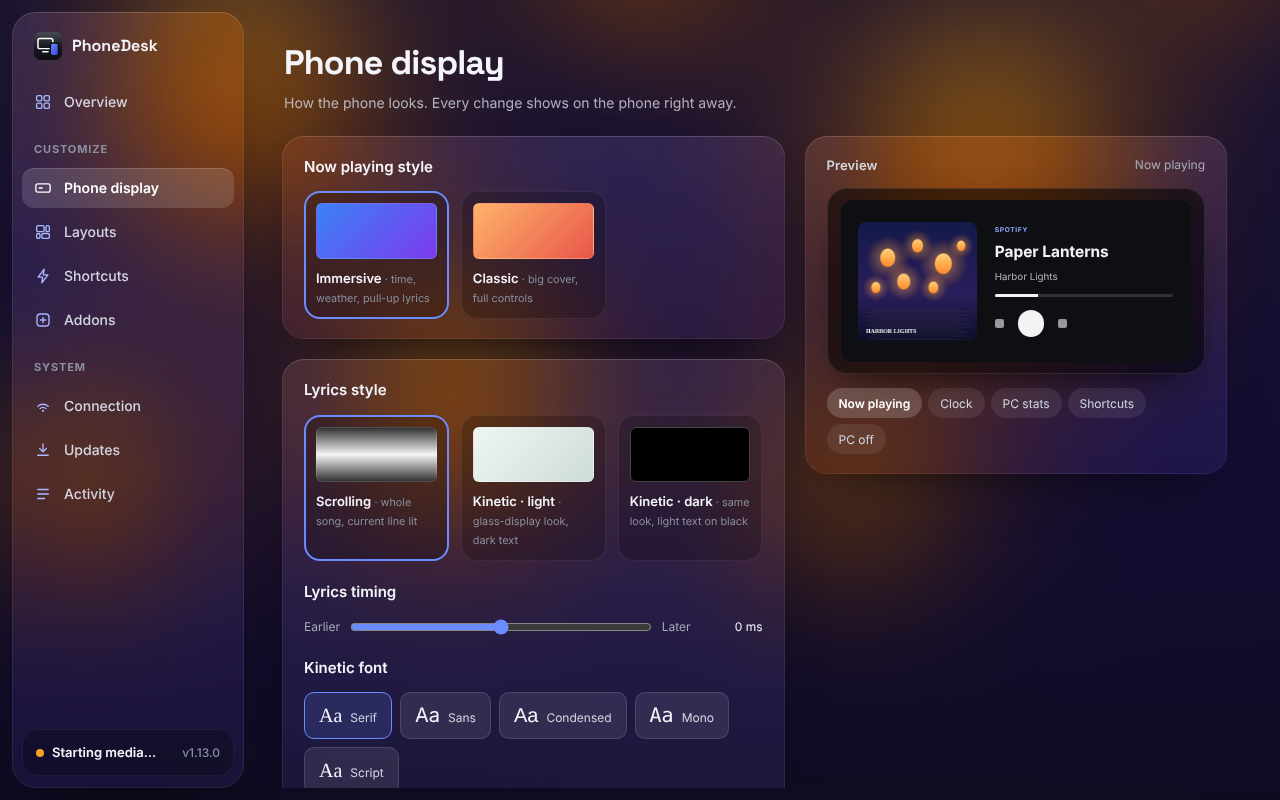
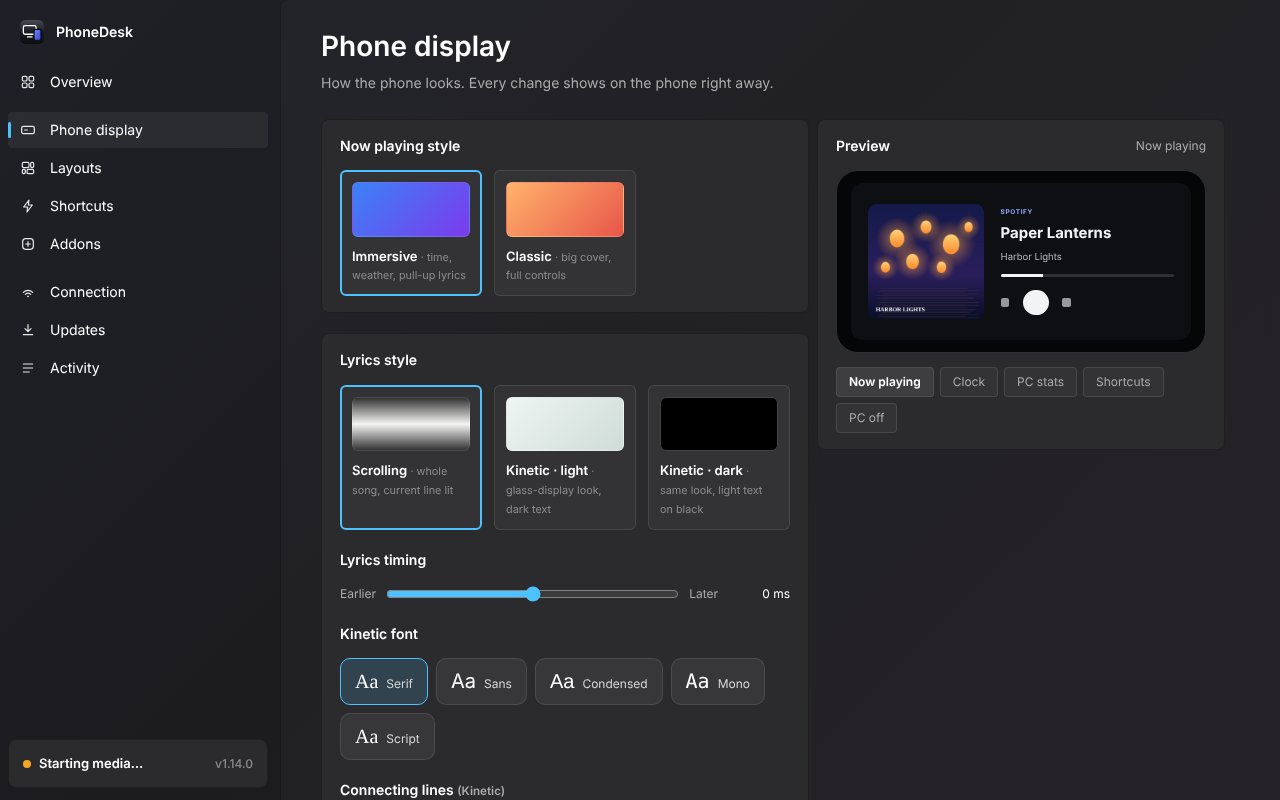
PC window: Windows 11 Settings look instead of Liquid Glass
Claude-Session: https://claude.ai/code/session_01GHAMAvh7YqaPz7AunRb2me

diff --git a/public/dashboard/dash.css b/public/dashboard/dash.css
@@ -511,156 +511,116 @@ select { background: var(--panel2, #1b1e25); border: 1px solid var(--line); bord
 .note-row { display: flex; align-items: center; gap: 8px; }
 .note-row input[type=text] { flex: 1; min-width: 0; }
 
-/* ================================================================ Liquid Glass (1.14)
-   The window sits on a blur of the album that is playing (or soft colour when nothing is), and every
-   panel is a sheet of glass over it: translucent, a bright rim on top, rounded like the phone's widgets. */
+/* ================================================================ Windows 11 look (1.14)
+   Like Windows 11 Settings: a quiet Mica-dark window, a plain sidebar with the selected page marked by a
+   small accent bar, the page title large, and content in flat rounded cards with thin strokes. */
 :root {
-  --bg: #08080d;
-  --panel: #16161f;
-  --sunk: rgba(0, 0, 0, .24);
-  --raised: rgba(255, 255, 255, .09);
-  --line: rgba(255, 255, 255, .08);
-  --line2: rgba(255, 255, 255, .13);
-  --fg: #F4F5FA;
-  --fg2: #D3D6E0;
-  --muted: #A6ABBA;
-  --dim: #8A8FA0;
-  --accent: #6B8CFF;
-  --accent-2: #4F56E8;
-  --accent-fg: #fff;
-  --accent-text: #A9B8FF;
-  --r: 22px;
-  --glass: linear-gradient(180deg, rgba(255, 255, 255, .085), rgba(255, 255, 255, .04));
-  --rim: inset 0 1px 0 rgba(255, 255, 255, .10), inset 0 0 0 1px rgba(255, 255, 255, .07);
-  --lift: 0 24px 48px -28px rgba(0, 0, 0, .7);
-  --blur: blur(28px) saturate(1.6);
+  --bg: #1c1c1f;
+  --panel: #2b2b2e;
+  --sunk: rgba(255, 255, 255, .04);
+  --raised: rgba(255, 255, 255, .06);
+  --line: rgba(255, 255, 255, .07);
+  --line2: rgba(255, 255, 255, .1);
+  --fg: #FFFFFF;
+  --fg2: #D6D6D6;
+  --muted: #ABABAB;
+  --dim: #8C8C8C;
+  --accent: #4CC2FF;
+  --accent-fg: #000;
+  --accent-text: #60CDFF;
+  --r: 8px;
+  --card: #2b2b2e;
+  --card-hover: #323236;
+  --stroke: 1px solid rgba(0, 0, 0, .28);
+  --ui: "Segoe UI Variable Text", "Segoe UI", Inter, system-ui, sans-serif;
+  --display: "Segoe UI Variable Display", "Segoe UI", Inter, system-ui, sans-serif;
 }
-body { background: var(--bg); }
-.backdrop { position: fixed; inset: 0; z-index: 0; pointer-events: none; overflow: hidden;
-  background: radial-gradient(50% 60% at 18% 12%, rgba(107, 140, 255, .28), transparent 70%), radial-gradient(45% 55% at 85% 20%, rgba(150, 90, 240, .24), transparent 70%), radial-gradient(50% 60% at 70% 95%, rgba(255, 150, 70, .14), transparent 70%), var(--bg); }
-.backdrop::before { content: ""; position: absolute; inset: -12%; background: var(--art, none) center / cover; filter: blur(70px) saturate(1.6) brightness(.62); opacity: 0; transition: opacity .8s ease; }
-body.has-art .backdrop::before { opacity: 1; }
-.backdrop::after { content: ""; position: absolute; inset: 0; background: linear-gradient(180deg, rgba(8, 8, 13, .25), rgba(8, 8, 13, .55)); }
-.shell { position: relative; z-index: 1; padding: 12px; gap: 12px; }
+body { font-family: var(--ui); background: var(--bg); }
+.backdrop { position: fixed; inset: 0; z-index: 0; pointer-events: none; background: linear-gradient(135deg, #1f2027 0%, #1c1c1f 45%, #201d22 100%); }
+.shell { position: relative; z-index: 1; }
 
-/* sidebar: one floating sheet */
-.side { width: 232px; border: 0; border-radius: 24px; background: var(--glass); box-shadow: var(--rim), var(--lift); backdrop-filter: var(--blur); -webkit-backdrop-filter: var(--blur); padding: 18px 10px 12px; }
-.brand { font-family: var(--display); font-size: 16px; padding: 2px 12px 18px; }
-.brand img { width: 28px; height: 28px; }
-.nav { height: 40px; border-radius: 12px; color: var(--fg2); transition: background-color .15s, color .15s; }
+/* sidebar: plain, no panel */
+.side { width: 280px; border: 0; background: none; padding: 14px 12px 12px 8px; gap: 2px; }
+.brand { font-family: var(--display); font-size: 14px; font-weight: 600; padding: 6px 12px 18px; gap: 12px; }
+.brand img { width: 24px; height: 24px; }
+.nav-group { display: none; }
+.nav[data-view="display"], .nav[data-view="connection"] { margin-top: 10px; }
+.nav { position: relative; height: 36px; gap: 14px; border-radius: 4px; padding: 0 12px; color: var(--fg); font-weight: 400; }
+.nav svg { width: 16px; height: 16px; color: var(--fg); opacity: .9; }
 .nav:hover { background: rgba(255, 255, 255, .06); color: var(--fg); }
-.nav.on { background: rgba(255, 255, 255, .14); box-shadow: inset 0 1px 0 rgba(255, 255, 255, .14); color: #fff; }
-.nav.on svg { color: #fff; }
-.nav svg { color: var(--accent-text); }
-.nav-group { color: var(--dim); margin: 16px 12px 6px; }
-.nav .count { background: var(--accent); color: #fff; }
-.side-foot { border: 0; border-radius: 16px; background: rgba(0, 0, 0, .22); box-shadow: inset 0 0 0 1px rgba(255, 255, 255, .06); }
-.up-pill { border-radius: 12px; border-color: transparent; background: rgba(107, 140, 255, .18); }
-.up-pill:hover { background: rgba(107, 140, 255, .26); }
+.nav.on { background: rgba(255, 255, 255, .06); color: var(--fg); font-weight: 400; }
+.nav.on::before { content: ""; position: absolute; left: 0; top: 50%; width: 3px; height: 16px; margin-top: -8px; border-radius: 2px; background: var(--accent); }
+.nav.on svg { color: var(--fg); }
+.nav .count { border-radius: 8px; background: var(--accent); color: #000; }
+.side-foot { border: var(--stroke); background: var(--card); border-radius: 8px; }
+.up-pill { border-radius: 4px; border-color: transparent; background: rgba(76, 194, 255, .14); }
 
 /* the page */
-.main { border-radius: 24px; }
-.view { padding: 22px 26px 40px; gap: 16px; max-width: 1240px; }
-.head { padding: 4px 2px 6px; }
-.head h1 { font-size: 34px; font-weight: 700; letter-spacing: -0.025em; }
-.head p { color: var(--fg2); opacity: .8; }
+.main { background: rgba(255, 255, 255, .025); border-top-left-radius: 8px; border-left: 1px solid rgba(0, 0, 0, .25); margin-top: 0; }
+.view { padding: 26px 40px 40px; gap: 8px; max-width: 1100px; }
+.head { padding: 0 0 18px; }
+.head h1 { font-family: var(--display); font-size: 28px; font-weight: 600; letter-spacing: 0; }
+.head p { color: var(--muted); font-size: 14px; }
+.card { background: var(--card); border: var(--stroke); border-radius: var(--r); padding: 16px 18px; box-shadow: none; }
+.card > h2, .label { font-size: 14px; font-weight: 600; color: var(--fg); }
+.card h3 { font-size: 14px; font-weight: 600; }
+.big { font-family: var(--display); font-weight: 600; }
+.grid, .split { gap: 8px; }
+.card .card { background: rgba(255, 255, 255, .03); }
 
-.card { border: 0; border-radius: var(--r); background: var(--glass); box-shadow: var(--rim), var(--lift); backdrop-filter: var(--blur); -webkit-backdrop-filter: var(--blur); padding: 20px 22px; }
-.card > h2, .label { color: var(--fg2); font-size: 13px; letter-spacing: .01em; }
-.card .card { background: rgba(0, 0, 0, .18); box-shadow: inset 0 0 0 1px rgba(255, 255, 255, .06); backdrop-filter: none; }
-
-/* controls: pills and glass */
-.btn { height: 36px; padding: 0 16px; border-radius: 999px; border: 0; background: rgba(255, 255, 255, .1); box-shadow: inset 0 1px 0 rgba(255, 255, 255, .1); color: #fff; transition: background-color .15s, transform .1s; }
-.btn:hover { background: rgba(255, 255, 255, .16); border: 0; }
-.btn:active { transform: scale(.97); }
-.btn.primary { background: linear-gradient(180deg, var(--accent), var(--accent-2)); color: #fff; box-shadow: inset 0 1px 0 rgba(255, 255, 255, .25), 0 8px 20px -8px rgba(80, 90, 240, .7); }
-.btn.primary:hover { filter: brightness(1.1); }
-.btn.ghost, .btn.danger { background: none; box-shadow: none; }
-.btn.ghost:hover { background: rgba(255, 255, 255, .08); }
-.icon-btn { background: rgba(255, 255, 255, .08); }
-.icon-btn:hover { background: rgba(255, 255, 255, .16); }
-.play-btn { background: #fff; color: #111; box-shadow: 0 8px 20px -8px rgba(0, 0, 0, .6); }
-.seg { border: 0; border-radius: 999px; background: rgba(0, 0, 0, .25); box-shadow: inset 0 0 0 1px rgba(255, 255, 255, .07); padding: 3px; }
-.seg button { border-radius: 999px; color: var(--fg2); }
-.seg button.on { background: rgba(255, 255, 255, .16); box-shadow: inset 0 1px 0 rgba(255, 255, 255, .15); color: #fff; }
-input[type=text], input[type=number], input[type=password], select { border-radius: 12px; border: 0; background: rgba(0, 0, 0, .26); box-shadow: inset 0 0 0 1px rgba(255, 255, 255, .09); }
-input[type=text]:focus, input[type=number]:focus, input[type=password]:focus { box-shadow: inset 0 0 0 1.5px var(--accent); }
-.switch { width: 42px; height: 24px; }
-.switch span { border-radius: 12px; background: rgba(255, 255, 255, .16); }
-.switch span::after { width: 20px; height: 20px; border-radius: 10px; background: #fff; box-shadow: 0 2px 6px rgba(0, 0, 0, .35); }
-.switch input:checked + span { background: var(--accent); }
-.switch input:checked + span::after { transform: translateX(18px); background: #fff; }
-.badge { border-radius: 999px; padding: 3px 9px; background: rgba(107, 140, 255, .2); }
-.pills button, .phone-tabs button { border: 0; background: rgba(255, 255, 255, .08); color: var(--fg2); }
-.pills button.on, .phone-tabs button.on { background: rgba(255, 255, 255, .18); color: #fff; }
-.theme, .icons button, .screens li, .url, .dev, .phone-row, .feed.full li, .recorder, .logs { border-color: rgba(255, 255, 255, .07); background: rgba(0, 0, 0, .2); }
-.theme { border-radius: 16px; }
+/* controls */
+.btn { height: 32px; padding: 0 12px; border-radius: 4px; border: 1px solid rgba(255, 255, 255, .07); border-bottom-color: rgba(255, 255, 255, .03); background: rgba(255, 255, 255, .06); color: var(--fg); font-weight: 400; }
+.btn:hover { background: rgba(255, 255, 255, .085); border-color: rgba(255, 255, 255, .07); }
+.btn:active { background: rgba(255, 255, 255, .04); color: var(--fg2); }
+.btn.primary { background: var(--accent); border-color: rgba(255, 255, 255, .08); color: #000; font-weight: 600; }
+.btn.primary:hover { background: #47B1E8; filter: none; }
+.btn.sm { height: 28px; font-size: 13px; }
+.btn.ghost, .btn.danger { background: none; border-color: transparent; }
+.icon-btn { border-radius: 4px; }
+.icon-btn:hover { background: rgba(255, 255, 255, .06); }
+.play-btn { background: var(--accent); color: #000; }
+.seg { background: rgba(255, 255, 255, .04); border: 1px solid var(--line); border-radius: 6px; }
+.seg button { border-radius: 4px; color: var(--fg2); }
+.seg button.on { background: rgba(255, 255, 255, .09); color: var(--fg); font-weight: 600; }
+input[type=text], input[type=number], input[type=password], select { height: 32px; border-radius: 4px; border: 1px solid rgba(255, 255, 255, .08); border-bottom-color: rgba(255, 255, 255, .45); background: rgba(255, 255, 255, .06); }
+input[type=text]:focus, input[type=number]:focus, input[type=password]:focus { border-color: rgba(255, 255, 255, .08); border-bottom: 2px solid var(--accent); background: #1f1f22; }
+.switch { width: 40px; height: 20px; }
+.switch span { border-radius: 10px; background: rgba(0, 0, 0, .1); box-shadow: inset 0 0 0 1px rgba(255, 255, 255, .6); }
+.switch span::after { left: 4px; top: 4px; width: 12px; height: 12px; border-radius: 6px; background: rgba(255, 255, 255, .8); transition: transform .15s; }
+.switch input:checked + span { background: var(--accent); box-shadow: none; }
+.switch input:checked + span::after { transform: translateX(20px); background: #000; }
+.badge { border-radius: 4px; background: rgba(76, 194, 255, .15); color: var(--accent-text); }
+.pills button, .phone-tabs button { border-radius: 4px; }
+.pills button.on, .phone-tabs button.on { background: rgba(255, 255, 255, .09); border-color: rgba(255, 255, 255, .09); }
+.theme { border-radius: 6px; }
 .theme.on, .icons button.on { border-color: var(--accent); }
-.key { border-radius: 14px; background: rgba(255, 255, 255, .08); }
-.key:hover { background: rgba(255, 255, 255, .13); }
-.pad, .device { border-radius: 20px; }
-.device { background: rgba(0, 0, 0, .55); border: 0; box-shadow: inset 0 0 0 1px rgba(255, 255, 255, .1), 0 20px 40px -20px rgba(0, 0, 0, .8); }
-.ly-item { border-radius: 14px; }
-.ly-item.on { background: rgba(255, 255, 255, .12); }
-.ly-stage { border-radius: 18px; border: 0; box-shadow: inset 0 0 0 1px rgba(255, 255, 255, .1); }
-.popover, .ob-card, .wn-box { background: rgba(24, 24, 34, .82); border: 0; box-shadow: inset 0 0 0 1px rgba(255, 255, 255, .1), 0 30px 80px rgba(0, 0, 0, .55); backdrop-filter: blur(40px) saturate(1.6); -webkit-backdrop-filter: blur(40px) saturate(1.6); }
-.ob-card, .wn-box { border-radius: 26px; }
-.onboard { background: rgba(5, 5, 9, .55); backdrop-filter: blur(6px); -webkit-backdrop-filter: blur(6px); }
-.toast { border-radius: 999px; }
-.qr { border-radius: 16px; background: #fff; }
+.meter { height: 4px; border-radius: 2px; background: rgba(255, 255, 255, .12); }
+.meter i { background: var(--accent); }
+.qr { border-radius: 6px; }
+.popover, .ob-card, .wn-box { background: #2c2c2f; border: 1px solid rgba(255, 255, 255, .08); border-radius: 8px; box-shadow: 0 16px 40px rgba(0, 0, 0, .45); }
+.toast { border-radius: 4px; }
 
-/* ---------------------------------------------------------------- overview: a bento */
-.ov-grid { display: grid; grid-template-columns: repeat(12, minmax(0, 1fr)); gap: 16px; }
-.ov-np { grid-column: span 7; position: relative; overflow: hidden; justify-content: space-between; min-height: 280px; }
-.ov-np::before { content: ""; position: absolute; inset: -30%; z-index: -1; background: var(--art, none) center / cover; filter: blur(50px) saturate(1.7) brightness(.75); opacity: 0; transition: opacity .6s; }
-body.has-art .ov-np::before { opacity: .9; }
-.ov-np { isolation: isolate; }
-.ov-np .np { gap: 22px; }
-.ov-np .np-art { width: 148px; height: 148px; border-radius: 18px; box-shadow: 0 18px 40px -16px rgba(0, 0, 0, .7); background: rgba(255, 255, 255, .08); }
-.ov-np .np-title { font-family: var(--display); font-size: 26px; font-weight: 700; letter-spacing: -0.01em; white-space: normal; display: -webkit-box; -webkit-line-clamp: 2; -webkit-box-orient: vertical; }
-.ov-np .np-artist { font-size: 15px; color: rgba(255, 255, 255, .75); margin-top: 6px; }
-.ov-np .np-ctrl { gap: 12px; }
-.ov-np .play-btn { width: 52px; height: 52px; border-radius: 26px; }
-.ov-np .icon-btn { width: 42px; height: 42px; border-radius: 21px; }
-.ov-np .vol { color: rgba(255, 255, 255, .75); }
-.ov-phone { grid-column: span 5; flex-direction: column; align-items: stretch; gap: 18px; padding: 20px 22px; }
+/* ---------------------------------------------------------------- overview: Windows 11 "System" home */
+.ov-grid { display: grid; grid-template-columns: repeat(12, minmax(0, 1fr)); gap: 8px; }
+.ov-np { grid-column: span 7; }
+.ov-phone { grid-column: span 5; flex-direction: column; align-items: stretch; gap: 14px; }
 .ov-phone .device { max-width: none; flex: none; }
-.ov-phone.empty-hero { align-items: flex-start; }
-.ov-phone.empty-hero .qr.lg { width: 148px; height: 148px; }
+.ov-phone.empty-hero { align-items: flex-start; padding: 18px; }
+.ov-phone.empty-hero .qr.lg { width: 128px; height: 128px; }
 .ov-phone .hero-info { flex: none; }
-.ov-pc { grid-column: span 5; }
-.ov-addr { grid-column: span 4; }
-.ov-feed { grid-column: span 3; }
+.ov-np .np { gap: 18px; }
+.ov-np .np-art { width: 112px; height: 112px; border-radius: 6px; }
+.ov-np .np-title { font-family: var(--display); font-size: 20px; font-weight: 600; white-space: normal; }
+.ov-pc, .ov-addr, .ov-feed { grid-column: span 4; }
+.ov-pc .pc { grid-template-columns: minmax(0, 1fr); gap: 12px; }
+.ov-pc .pc .num { font-size: 18px; margin: 0 0 6px; }
 .ov-addr .addr { flex-direction: column; align-items: flex-start; }
-.ov-pc .pc { grid-template-columns: repeat(3, minmax(0, 1fr)); gap: 8px; }
-.ov-pc .pc > div { display: grid; justify-items: center; grid-template-areas: "ring" "label"; row-gap: 8px; }
-.ov-pc .pc .meter { grid-area: ring; width: 92px; height: 92px; border-radius: 50%; overflow: visible;
-  background: conic-gradient(var(--rc, var(--accent)) calc(var(--p, 0) * 1%), rgba(255, 255, 255, .1) 0);
-  -webkit-mask: radial-gradient(farthest-side, transparent calc(100% - 9px), #000 calc(100% - 8px)); mask: radial-gradient(farthest-side, transparent calc(100% - 9px), #000 calc(100% - 8px)); transition: --p .6s; }
-.ov-pc .pc .meter i { display: none; }
-.ov-pc .pc .num { grid-area: ring; place-self: center; margin: 0; font-size: 22px; }
-.ov-pc .pc .small { grid-area: label; text-align: center; color: var(--fg2); }
-.ov-pc .pc > div:nth-child(1) { --rc: #30D158; }
-.ov-pc .pc > div:nth-child(2) { --rc: #0A84FF; }
-.ov-pc .pc > div:nth-child(3) { --rc: #FF9F0A; }
-@property --p { syntax: "<number>"; inherits: true; initial-value: 0; }
-@media (max-width: 1180px) {
-  .ov-np, .ov-phone { grid-column: span 12; }
-  .ov-pc { grid-column: span 12; }
-  .ov-addr, .ov-feed { grid-column: span 6; }
-}
-@media (max-width: 760px) {
-  .shell { padding: 0; gap: 0; }
-  .side { border-radius: 0; }
-  .ov-addr, .ov-feed { grid-column: span 12; }
-}
-@media (prefers-reduced-transparency: reduce) {
-  .card, .side { backdrop-filter: none; -webkit-backdrop-filter: none; background: #1a1a24; }
-}
-.ov-np { justify-content: flex-start; gap: 22px; }
-.ov-np .np { flex: 1; }
-.ov-np .np-art { width: 176px; height: 176px; }
-.ov-np .np-title { font-size: 30px; }
-/* with no phone yet the big card already shows the code: the address card keeps only the address */
 .ov-grid:has(#ov-empty:not([hidden])) .ov-addr .qr { display: none; }
-.ov-addr .addr-body .big { font-size: 24px; }
+@media (max-width: 1100px) {
+  .ov-np, .ov-phone { grid-column: span 12; }
+  .ov-pc, .ov-addr, .ov-feed { grid-column: span 6; }
+  .ov-feed { grid-column: span 12; }
+}
+@media (max-width: 760px) { .ov-pc, .ov-addr { grid-column: span 12; } }
+.ov-grid { align-items: start; }
+.ov-phone .steps, .ov-phone .hero-info { flex: none; }

diff --git a/CHANGELOG.md b/CHANGELOG.md
@@ -9,17 +9,17 @@ was released, with a made-up song (*Paper Lanterns* by *Harbor Lights*) and orig
 
 ## [1.14.0] — 2026-11-13
 
-A new look for the PhoneDesk window on your PC, to match the phone's Liquid Glass style.
+A new look for the PhoneDesk window on your PC, made to feel at home in Windows 11.
 
 ### Changed
 
-- **The PC window is redesigned in Liquid Glass.** It sits on a blur of the album that is playing (soft colour when
-  nothing is), and the sidebar and every panel are sheets of glass over it, with rounded corners, pill buttons and
-  switches like the phone's.
-- **A new Overview:** a large Now playing card with the cover and its colours, the phone (or the code to connect one)
-  beside it, and PC stats as rings for CPU, memory and GPU.
+- **The PC window looks like Windows 11 Settings.** A quiet dark window, a plain sidebar where the selected page is
+  marked by a small blue bar, large page titles, and settings in flat rounded cards with Windows-style buttons, text
+  boxes and switches. It uses Segoe UI, like Windows itself.
+- **A new Overview:** Now playing and your phone (or the code to connect one) side by side at the top, then PC stats,
+  the phone address and recent activity.
 
-![The Overview page of the PhoneDesk window in Liquid Glass](docs/changelog/1.14.0/dashboard-overview.png)
+![The Overview page of the PhoneDesk window](docs/changelog/1.14.0/dashboard-overview.png)
 
 ### Fixed
 
